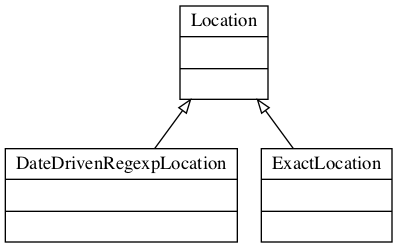
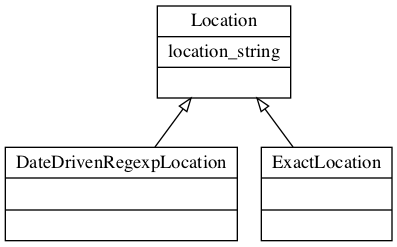
Implementing based Location classess (still just the ExactLocation but already not a str type)

diff --git a/dummit/dummit_inputs.py b/dummit/dummit_inputs.py
@@ -1,9 +1,14 @@
+from abc import abstractmethod
 import pandas as pd
 import os
 import time
 
+#from dummit.dummit_factories import LocationFactory
+
 from . import dummit_tests as dt
 from . import dummit_df_tests as dft
+from . import dummit_locations as dl
+from . import dummit_factories as df
 
 class MethodNotImplementedException(Exception):
     pass
@@ -14,8 +19,10 @@ class UnableToLoadFormatToPandas(Exception):
 class Input():
     """
     Generic Input class that definess all the Tests we expect subclasses to implement
+    It actually handles the DataFrame Tests as the specialized class: File / AzureBlob / OracleTable will 
+        be there to support it with the DataFrame and placing that logic here makes less duplication (I think :))
     """
-    def __init__(self,environments,data_dict):
+    def __init__(self,data_dict):
         # common fields 
         self.name = data_dict.get("input_name")
         self.type = data_dict.get("input_type")
@@ -26,15 +33,18 @@ class Input():
                                 # local storage is in unique location for the current test run
                                 # so its not downloaded only once
         self.locations = {}
-        for environment in environments:
-            self.locations[environment] = data_dict.get("input_locations").get(environment)
-
-    def getDataFrame(self, environment,format):
+        for location in data_dict.get("input_locations"):
+            self.locations[location["location_for_environment"]] = df.LocationFactory.createLocationFromDict(location)
+    
+    @abstractmethod
+    def getDataFrame(self, environment:str,format:str):
         raise MethodNotImplementedException("in getDataFrame")
 
+    @abstractmethod
     def runPresenceTest(self,environment: str) -> dt.TestResult :
         raise MethodNotImplementedException("in runPresenceTest")
-    
+
+    @abstractmethod
     def runFreshEnoughTest(self,environment: str, test:dt.FreshEnoughTest) -> dt.TestResult :
         raise MethodNotImplementedException("in runFreshEnoughTest")
 
@@ -62,8 +72,8 @@ class LocalFileInput(Input):
     """
     A file accessible through file system. Actualy a network mount shall also work here.
     """
-    def __init__(self,environments,data_dict):
-        super().__init__(environments,data_dict)
+    def __init__(self,data_dict):
+        super().__init__(data_dict)
     
     def getDataFrame(self,environment):
         if self.runPresenceTest(environment) == dt.TestResult.COMPLETED_WITH_FAILURE:
@@ -71,17 +81,17 @@ class LocalFileInput(Input):
         if type(self._df)!=pd.DataFrame:
             format = self.format.lower()
             if format=="excel" or format =="xls" or format=="xlsx":
-                self._df = pd.read_excel(self.locations[environment])
+                self._df = pd.read_excel(self.locations[environment].get_location_string())
             elif format=="csv":
-                self._df = pd.read_csv(self.locations[environment])
+                self._df = pd.read_csv(self.locations[environment].get_location_string())
             elif format=="paruqet":
-                self._df = pd.read_parquet(self.locations[environment])
+                self._df = pd.read_parquet(self.locations[environment].get_location_string())
             else:
                 raise UnableToLoadFormatToPandas(f"{format} is a bit of a stranger to me.")
         return self._df
         
     def runPresenceTest(self, environment: str) -> dt.TestResult :
-        path = self.locations[environment]
+        path = self.locations[environment].get_location_string()
         if os.path.isfile(path):
             return dt.TestResult.COMPLETED_WITH_SUCCESS
         else:
@@ -89,7 +99,7 @@ class LocalFileInput(Input):
 
     def runFreshEnoughTest(self, environment: str, test: dt.FreshEnoughTest) -> dt.TestResult :
         """ Checks last modification date (and if file exist as well, only if it exist a concept of modification data is there. """
-        path = self.locations[environment]
+        path = self.locations[environment].get_location_string()
         if os.path.isfile(path):
             modification_timestamp = os.path.getmtime(path) 
             if time.time() < modification_timestamp +  60 * 60 * test.maxAgeInHours:

diff --git a/dummit/dummit_factories.py b/dummit/dummit_factories.py
@@ -13,16 +13,16 @@ class UnknownLocationTypeException(Exception):
 
 class InputFactory():
     @staticmethod
-    def createInputFromDict(environments,data_dict):
+    def createInputFromDict(data_dict):
         input_type = data_dict.get("input_type")
         if input_type=="local_file":
-            return di.LocalFileInput(environments,data_dict)
+            return di.LocalFileInput(data_dict)
         else:
             raise UnknownInputTypeException(input_type)
 
 class TestFactory():
     @staticmethod
-    def createTestFromDict(environments,data_dict):
+    def createTestFromDict(data_dict):
         test_type = data_dict.get("test_type")
         if test_type=="presence_test":
             return dt.PresenceTest(data_dict)
@@ -37,9 +37,11 @@ class TestFactory():
 
 class LocationFactory():
     @staticmethod
-    def createLocationFromDict(environments,data_dict):
+    def createLocationFromDict(data_dict):
         location_type = data_dict.get("location_type")
-        if location_type=="exact_location":
+        location_value = data_dict.get("location_value")
+        if location_type=="exact":
+            return dl.ExactLocation(location_value)
             pass
         elif location_type=="":
             pass

diff --git a/dummit/dummit_locations.py b/dummit/dummit_locations.py
@@ -1,9 +1,17 @@
 class Location:
-    def __str__():
-        raise NotImplementedError("__str__() should be overriden in the Location derived class")
+    def __init__(self,location_string):
+        self.location_string = location_string # here some resource identifier will end 
+    def __str__(self):
+        return self.location_string
+    def get_location_string(self):
+        return self.location_string
 
 class ExactLocation(Location):
+    """ Nothing extra here vs the base Location"""
     pass
 
 class DateDrivenRegexpLocation(Location):
+    """ And here a 'chicken and egg' situation occurs. Making 'PresenceTest' for those Locations a bit of a nonsense / repetition
+    I will need to check for the file and update the location_string on the fly or set it to some false value that will fail the 'PresenceTest'
+    """
     pass

diff --git a/dummit/dummit.py b/dummit/dummit.py
@@ -32,14 +32,14 @@ class TestLibrary():
         # Inputs part
         self.inputs = {}
         for input_dict in config["inputs"]:
-            input = df.InputFactory.createInputFromDict(self.environments,input_dict)
+            input = df.InputFactory.createInputFromDict(input_dict)
             self.inputs[input.name] = input
         self.logger.logMessage(f"Inputs count: {len(self.inputs)}")
 
         # Tests part
         self.tests = []
-        for test in config["tests"]:
-            self.tests.append(df.TestFactory.createTestFromDict(self.environments,test))
+        for test_dict in config["tests"]:
+            self.tests.append(df.TestFactory.createTestFromDict(test_dict))
         self.logger.logMessage(f"Tests count: {len(self.tests)}")
 
         # Over an out!

diff --git a/dummit/__init__.py b/dummit/__init__.py
@@ -1,3 +1,2 @@
-# in __init__.py
+# in __init__.py 
 from dummit.dummit import TestLibrary, TextLogger
-from dummit.dummit_factories import InputFactory, TestFactory, LocationFactory
